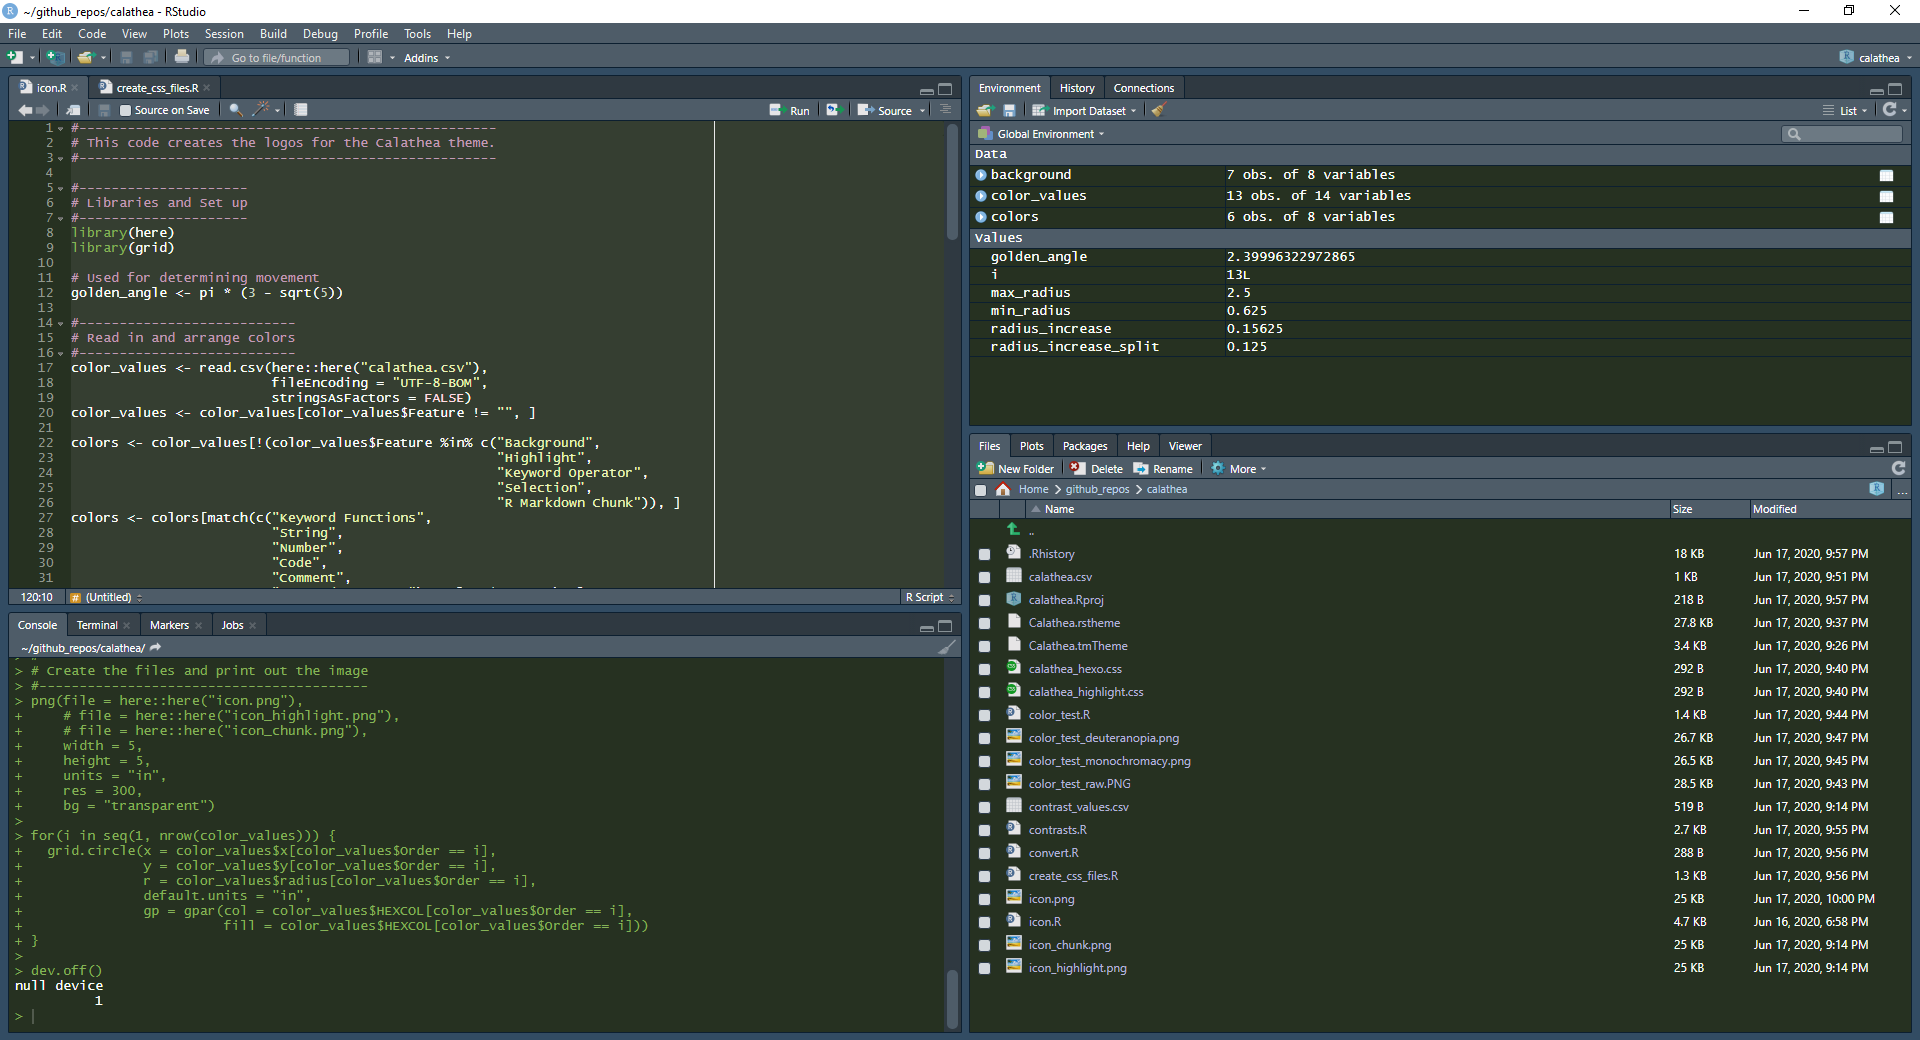
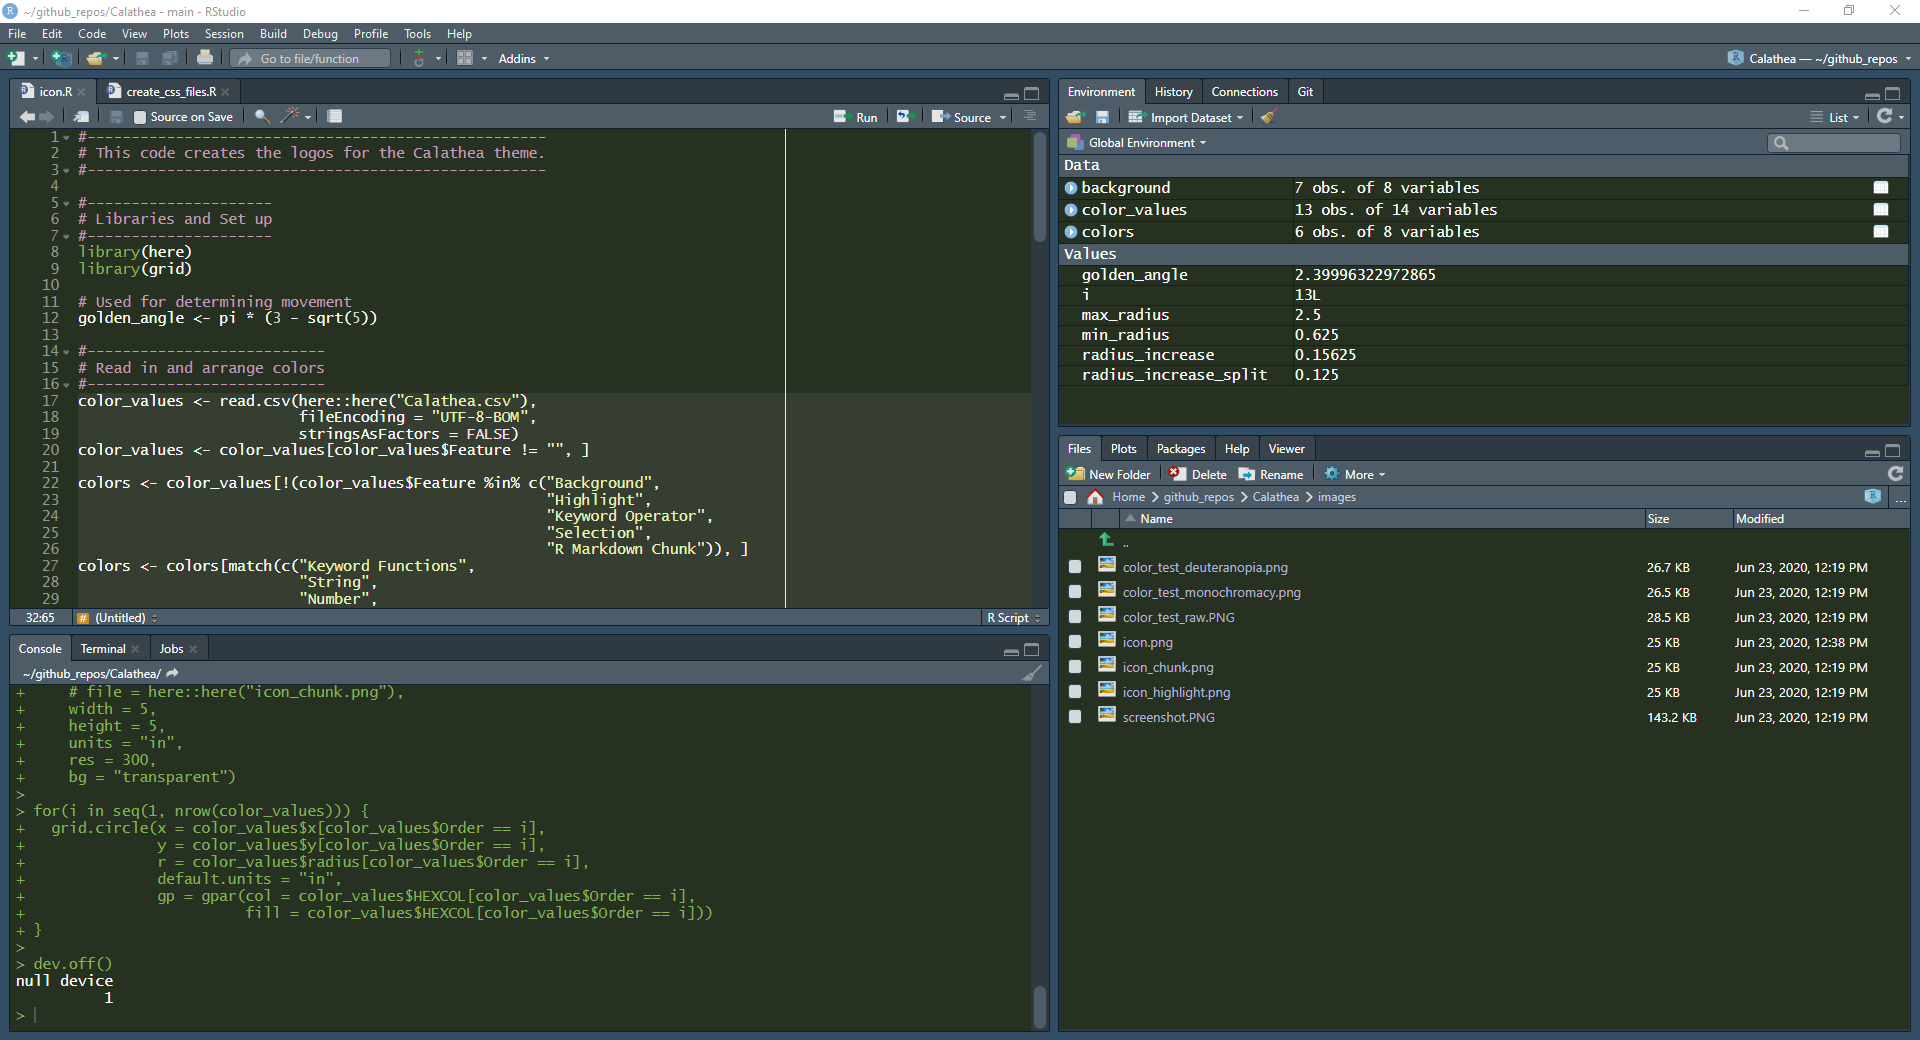
Updated README and added some images

Changed region(s): [[0.0, 0.0, 1.0, 1.0], [0.0, 0.8923, 0.0625, 0.9538]]

diff --git a/README.md b/README.md
@@ -1,2 +1,56 @@
 # Calathea
 An elegant theme for growth and flow.
+
+---
+
+<center>
+<img src="https://raw.githubusercontent.com/WilliamTylerBradley/Calathea/main/images/icon.png" width="100" height="100" title="icon">
+<img src="https://raw.githubusercontent.com/WilliamTylerBradley/Calathea/main/images/icon_highlight.png" width="100" height="100" title="icon_highlight">
+<img src="https://raw.githubusercontent.com/WilliamTylerBradley/Calathea/main/images/icon_chunk.png" width="100" height="100" title="icon_chunk">
+</center>
+
+---
+
+This theme is based on colors from the Calathea genus.  It features dark green backgrounds with lighter green, pink, and purple foregrounds.  The Calathea.csv shows the color scheme features, Hexo.js/Highlight.js code options, tmTheme with a rsTheme manual edit for R markdown documents, the color names, and finally the HEX code colors.  A few utilizations can be found in the utilizations folder, including a rstheme for RStudio and Hexo css for blogdown. The rstheme comes from the tmTheme with the manual edit from the Calathea.csv file.  The calathea_hexo.css file pulls from the Calathea.csv and created by create_css_files.R.
+
+### Calathea Theme in RStudio
+
+<img src="https://raw.githubusercontent.com/WilliamTylerBradley/Calathea/main/images/screenshot.PNG" title="screenshot">
+
+The theme can be directly imported after downloading the [`.rstheme`](https://github.com/WilliamTylerBradley/Calathea/main/utilizations/Calathea.rstheme) file for RStudio &lt 2.1.
+
+See [RStudio IDE Custom Theme Support](https://blog.rstudio.com/2018/10/29/rstudio-ide-custom-theme-support/) for a pictorial step-by-step, or [Creating Custom Themes for RStudio](https://rstudio.github.io/rstudio-extensions/rstudio-theme-creation.html#sharing-a-theme) if you want to learn more.
+
+To download and apply the theme to RStudio, run the following code in RStudio:
+```r
+rstudioapi::addTheme("https://raw.githubusercontent.com/WilliamTylerBradley/Calathea/main/utilizations/Calathea.rstheme", apply = TRUE)
+```
+(Shout out to @batpigandme's [night-owlish theme](https://github.com/batpigandme/night-owlish) for information on this section.)
+ 
+
+---
+
+The foreground color have at least a 4.5:1 contrast with all the background colors.
+
+| Feature           | Color  | Background Contrast | Selection Contrast | Chunk Contrast |
+| :---              | :---   |                ---: |               ---: |           ---: |
+| Code	            | White	 |               13.50 |              11.05 |          15.32 |
+| Comment	          | Purple |	              5.66 |               4.63 |           6.42 |
+| Keyword Contants	| Pink	 |               10.97 |               8.99 |          12.45 |
+| Keyword Functions	| Green	 |                5.51 |               4.51 |           6.25 |
+| Number	          | Dull	 |                8.81 |               7.22 |          10.00 |
+| String	          | Yellow |	             11.81 |               9.67 |          13.40 |
+
+The appearance for the color scheme under a few color blindness settings.
+
+<center>
+| Full Color | Deuteranopia | Monochromacy |
+| :---:| :---: | :---: |
+| <img src="https://raw.githubusercontent.com/WilliamTylerBradley/Calathea/main/images/color_test_raw.PNG" width="200" title="color_test_raw"> | <img src="https://raw.githubusercontent.com/WilliamTylerBradley/Calathea/main/images/color_test_deuteranopia.png" width="200" title="color_test_deuteranopia"> | <img src="https://raw.githubusercontent.com/WilliamTylerBradley/Calathea/main/images/color_test_monochromacy.png" width="200" title="color_test_monochromacy"> |
+</center>
+
+---
+
+DOTO?
+- [ ] Light Theme
+- [ ] 7:1 Contrast
